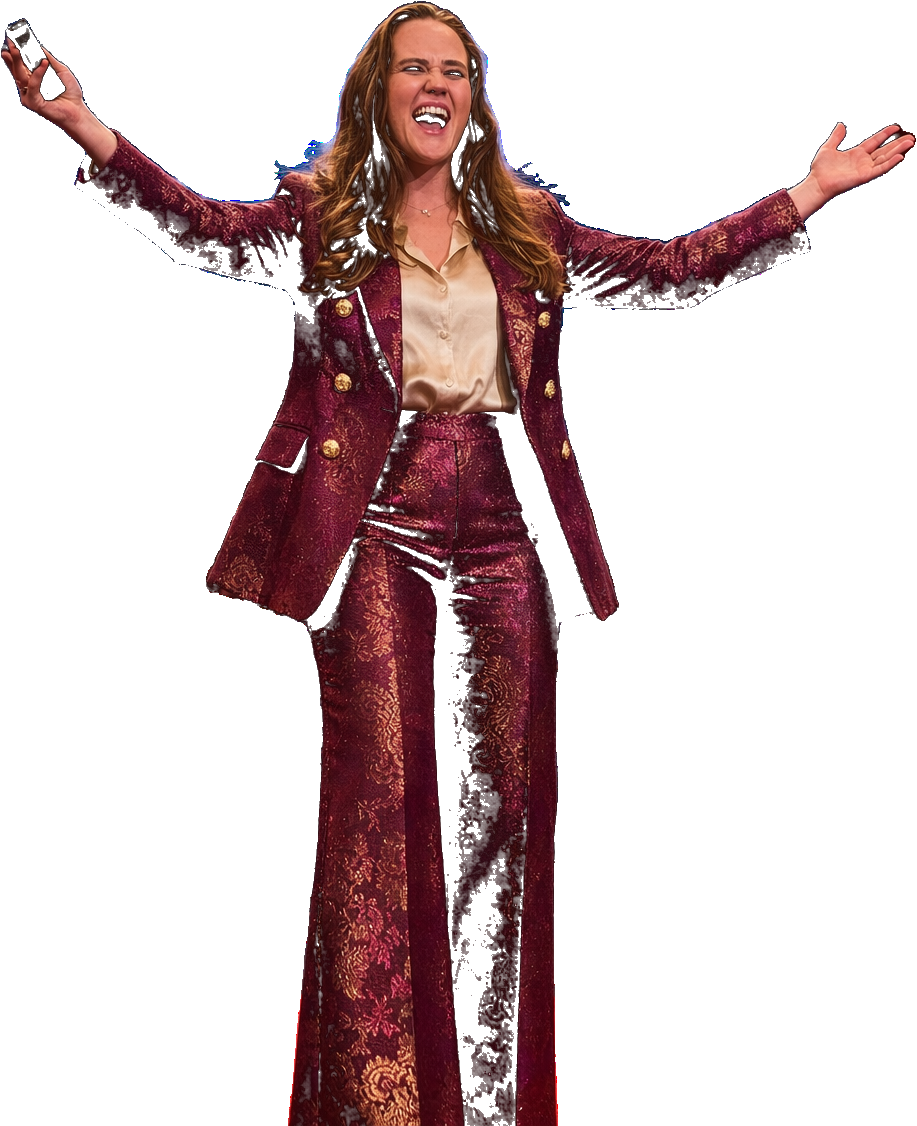
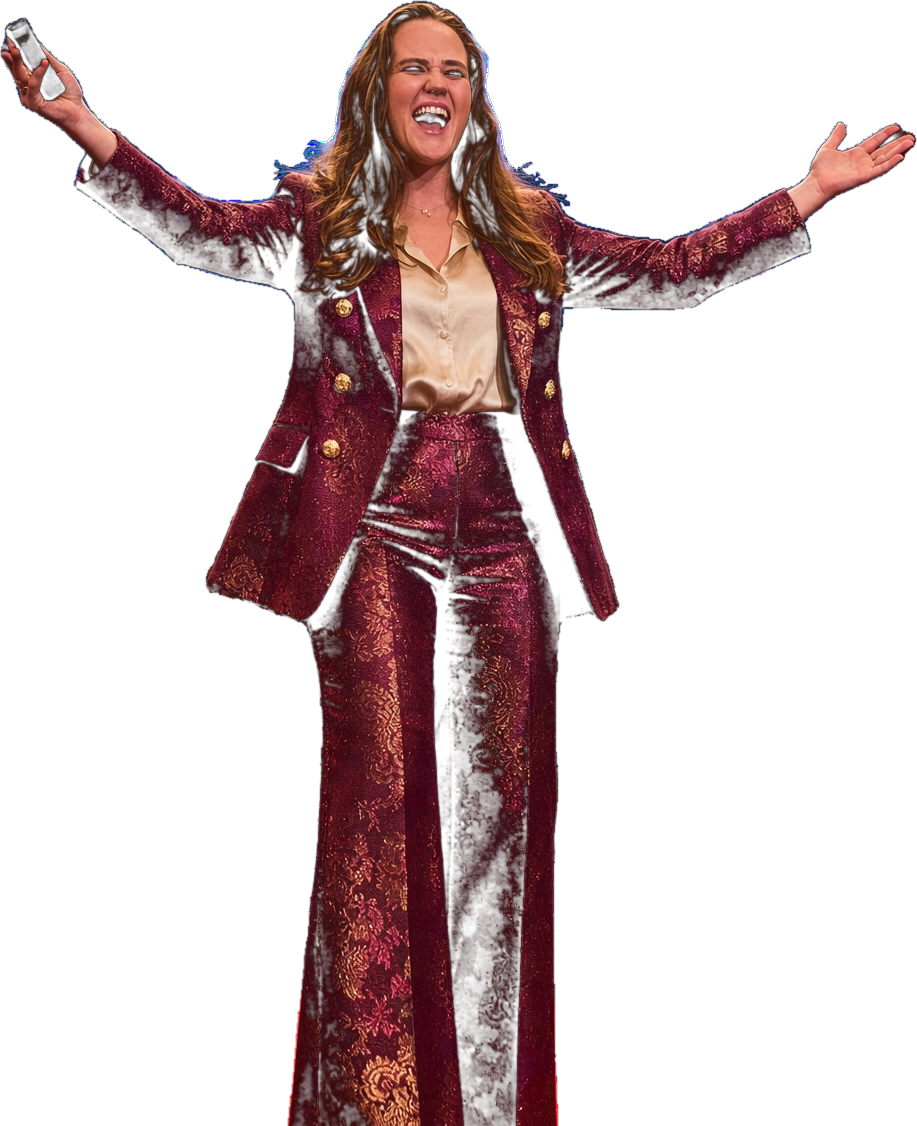
fix: restore original photo + stronger dual-layer backdrop at face level

diff --git a/index.html b/index.html
@@ -249,12 +249,15 @@ img  { display:block; max-width:100%; }
 }
 
 /* Dark backdrop — sits between name text (z:1) and photo (z:5).
-   Absorbs the name text showing through semi-transparent photo edges. */
+   Two-layer shield: strong at face/top area, medium across full figure.
+   Only affects semi-transparent photo edges — opaque figure pixels are unaffected. */
 .portal-stage::after {
   content: '';
   position: absolute;
   inset: 0;
-  background: radial-gradient(ellipse 55% 80% at 50% 54%, rgba(14,8,22,.78) 0%, rgba(14,8,22,.4) 50%, transparent 72%);
+  background:
+    radial-gradient(ellipse 48% 42% at 50% 26%, rgba(14,8,22,.94) 0%, rgba(14,8,22,.6) 45%, transparent 75%),
+    radial-gradient(ellipse 46% 80% at 50% 52%, rgba(14,8,22,.85) 0%, rgba(14,8,22,.4) 50%, transparent 75%);
   z-index: 3;
   pointer-events: none;
 }
